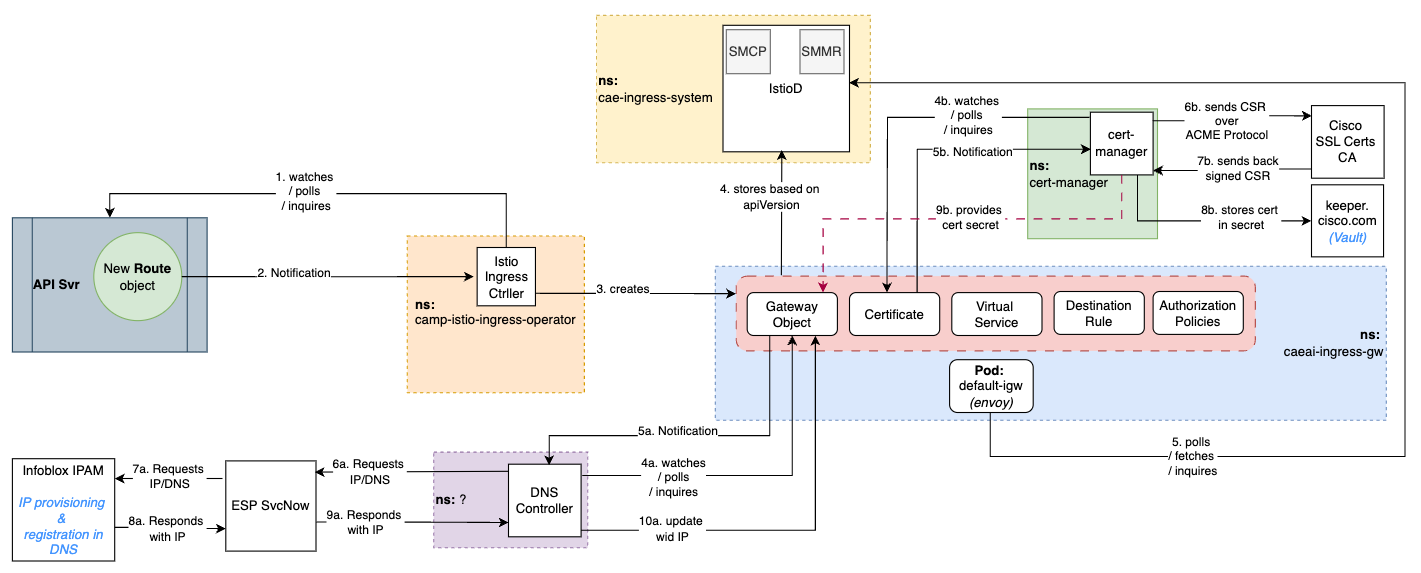
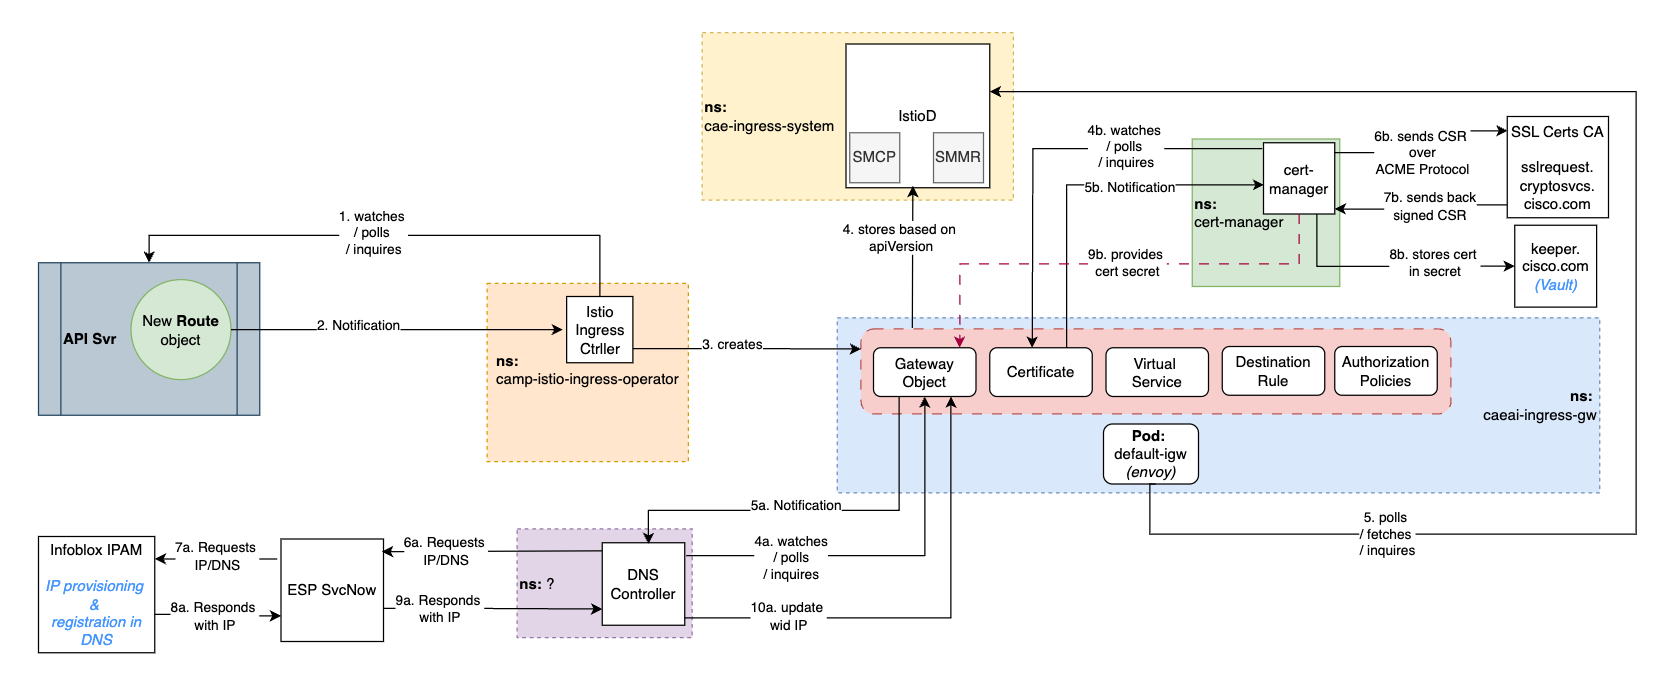
Added more details

Changed region(s): [[0.0, 0.0, 0.9909, 0.9791]]

diff --git a/single_model_mesh/istio_ingress_ctrller.md b/single_model_mesh/istio_ingress_ctrller.md
@@ -95,15 +95,16 @@
 			- This secret is needed by GW for TLS termination
 - For each cert tht cert-manager creates, equivalent CSR is also generated, wid issuer being `cisco-acme`
 - Explore more abt diff. objects avl for certs by executing `oc api-resources | grep cert`, to understand how these r inter-connected
+	- Execute 
 - **Summary:**
-	- Once Istio Ingress Operator ?? creates a cert object with CSR ??, 
+	- Once Istio Ingress Operator creates a cert object, 
 		- cert-manager ctrller, that watches creation of a cert object, gets notified and
 			- reads details from cert object related to hostname & generates CSR ??
-			- connects to SSL Certs CA to request for new cert for 
-				- SSL Certs CA  
-					- performs DNS lookup to validate is provided hostname resolves to an IP
-					- if provided hostname resolves to an IP, then SSL Certs CA signs CSR
-					- sends back signed CSR
+			- connects to SSL Certs CA to request the CSR to be signed 
+			- SSL Certs CA  
+				- performs DNS lookup to validate is provided hostname resolves to an IP
+				- if provided hostname resolves to an IP, then SSL Certs CA signs CSR
+				- sends back signed CSR
 			- stores signed CSR in a secret in vault / secret store (keeper.cisco.com ??)
 			- provides secret name to GW object, for it to run successfully
 
